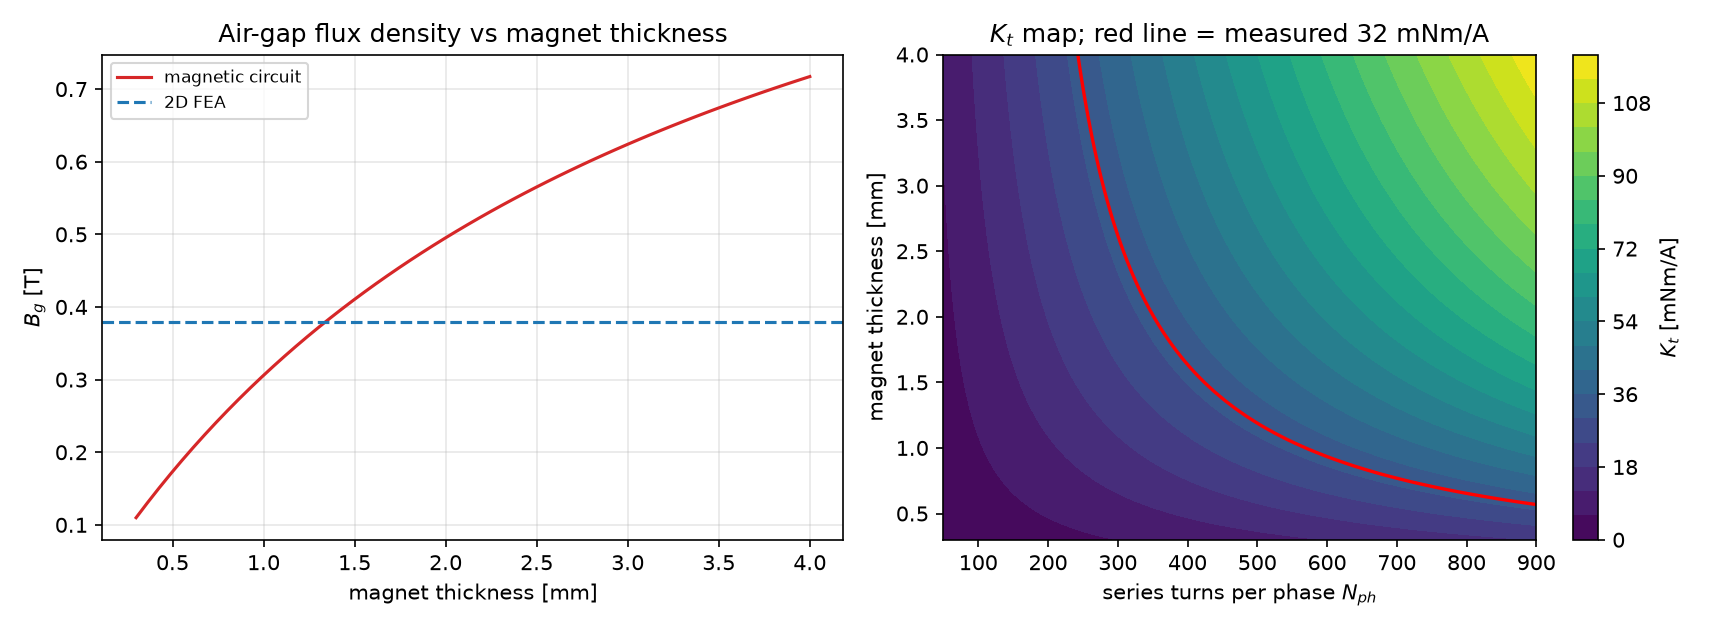
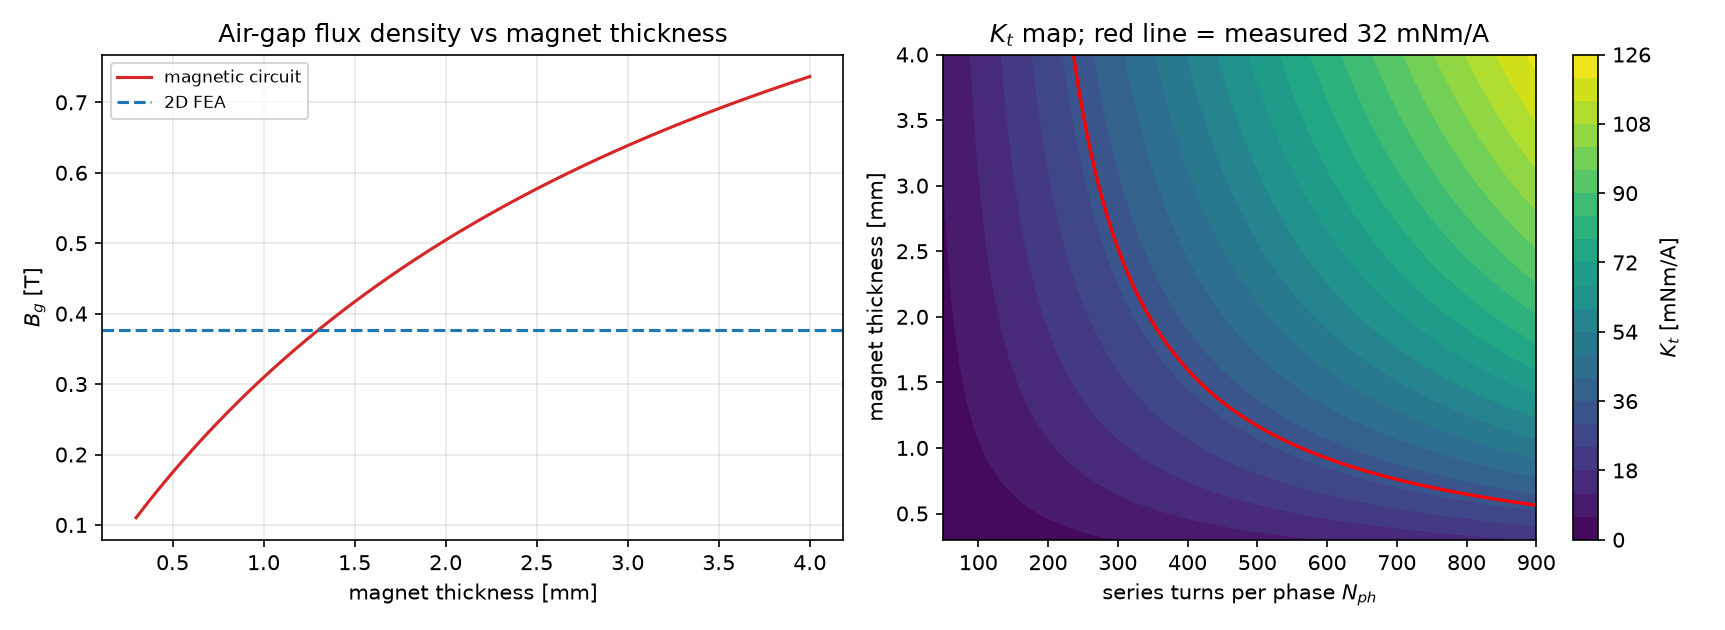
results: regenerate artefacts with the corrected post-processing
- box-cantilever-*/result.json: the stress label is now "nodal extrapolated
  peak" (the values are unchanged - they always came from the FRD).
- uav-wing-naca4412: airfoil S2 ordinates evaluated analytically (max_abs_err
  4.9e-5 c, previously 0.0638-0.0974 because the upper surface was broken);
  the 8 mm and 4 mm wing results were recomputed, and the section S33 now
  agrees with beam theory to 0.7-3.1 % (previously 32-185 % due to the
  node/element id mix-up).
- uav-wing-polar: corrected paper title/authors in polar.json and the same
  section-stress fix for the Cl = 1.26 / 43 m/s wing case.
- afpm-pcb-motor: dual-rotor TORUS circuit (0.3093 T), corrected periodic
  BC (Bg 0.3766 T), explicit fem/circuit flux and Kt/N fields; figures redrawn
  with the corrected field.
- wind-blade-25m: blade FEA re-run with the fixed element counter
  (5 195 nodes / 15 944 elements; 63.71 mm tip, 19.33 MPa nodal peak) and the
  matching stress/deformed figures.

diff --git a/results/README.md b/results/README.md
@@ -6,27 +6,27 @@ plots shown in the reports (`png`), and the CAD output (`step`). Meshes, solver 
 
 | Folder | Case | Key file | Look at |
 |---|---|---|---|
-| `box-cantilever-500N/` | STEP → gmsh → CalculiX smoke test, 500 N tip load | `result.json` (0.0708 mm, 51.6 MPa) | `stress.png` |
+| `box-cantilever-500N/` | STEP → gmsh → CalculiX smoke test, 500 N tip load | `result.json` (0.0708 mm; 51.6 MPa nodal peak, 40.4 MPa element-average) | `stress.png` |
 | `box-cantilever-800N/` | Same mesh, 800 N — checks linearity | `result.json` (0.1133 mm, 82.6 MPa) | `stress.png` |
 | `box-cantilever-freecad/` | Same part driven through FreeCAD + drawing export | `result.json` (0.0707 mm) | `freecad/drawing.pdf` |
-| `uav-wing-naca4412/` | Round 1: NACA 4412 profile, closed STEP, box-spar wing FEA | `wing/result.json` (tip +6.7 %) | `airfoil/airfoil_shape.png`, `wing/*` |
+| `uav-wing-naca4412/` | Round 1: NACA 4412 profile, closed STEP, box-spar wing FEA | `wing/result.json` (tip +6.7 %; section S33 ≤3.1 %) | `airfoil/airfoil_shape.png`, `wing/*` |
 | `uav-wing-polar/` | Round 2: NACA 2412 + 4412 polars vs paper | `polar/polar.json` (10 CL points) | `polar/polar_compare.png` |
 | `wind-blade-25m/` | Round 3: 25 m blade, Glauert chord/twist, BEM, solid FEA | `bem/bem.json`, `fea/result.json` | `viz/cp_tsr.png`, `viz/blade_3d_rotor.png` |
 | `exhaust-pipe-gradient/` | Round 4: pipe with axial gas gradient (500 → 350 °C) | `thermal/result.json` (0.168 % vs fin) | `viz/thermal_3d.png`, `viz/thermal_2d.png` |
 | `exhaust-pipe-uniform/` | Round 4: uniform gas temperature, exact-solution check | `thermal/result.json` (0.001 %) | `viz/thermal_2d.png` |
-| `afpm-pcb-motor/` | Round 5: PCB axial-flux motor, magnetic circuit + 2D field | `afpm/result.json` (`Kt` −53 %) | `viz/afpm_3d.png`, `viz/field_2d.png`, `viz/kt_study.png` |
+| `afpm-pcb-motor/` | Round 5: PCB axial-flux motor, corrected dual-rotor circuit + 2D field | `afpm/result.json` (`Kt` −53 % FEA / −62 % circuit) | `viz/afpm_3d.png`, `viz/field_2d.png`, `viz/kt_study.png` |
 
 ## Reading a result file
 
-Every `result.json` follows the same shape:
+The schema depends on the case; each report documents its own keys:
 
-```jsonc
-{
-  "fea":      { ... },   // what the solver produced
-  "theory":   { ... },   // the independent reference (beam, fin, BEM, circuit)
-  "error":    { ... }    // relative errors, already computed
-}
-```
+| Case | `result.json` shape |
+|---|---|
+| `box-cantilever-*/` | `{vtk, n_points, n_cells, arrays, max_disp_mm, max_vm_stress_MPa, max_vm_stress_note, max_vm_stress_element_avg_MPa, sta_tail, errors}` — `max_vm_stress_MPa` is the **nodal extrapolated peak** from the FRD (not a converged element value); `max_vm_stress_element_avg_MPa` is the element-averaged peak. |
+| `uav-wing-*/wing/` | `{fea, beam_theory, deflection_profile, sections, error, note}` — `sections` compares element-averaged S33 with beam theory. |
+| `exhaust-pipe-*/thermal/` | `{segments: [...], max_err_inner_pct, max_err_outer_pct, max_err_fin_pct}`. |
+| `afpm-pcb-motor/afpm/` | `{paper, geometry, topology_note, Bg_fem_T, Bg_circuit_T, flux_per_pole_fem_Wb, flux_per_pole_circuit_Wb, Kt_at_N216_*_mNm_A, N_implied_from_meas_*, N_from_table}`. |
+| `wind-blade-25m/` | `blade/design.json` (rows), `bem/bem.json` (cp_sweep, power_curve, check), `fea/{mesh,result}.json`. |
 
-If a field is `null` or missing, the case did not produce it — that is usually the point
-being made in the corresponding report.
+A field that is `null` or missing means the case did not produce it — that is usually the
+point being made in the corresponding report.
